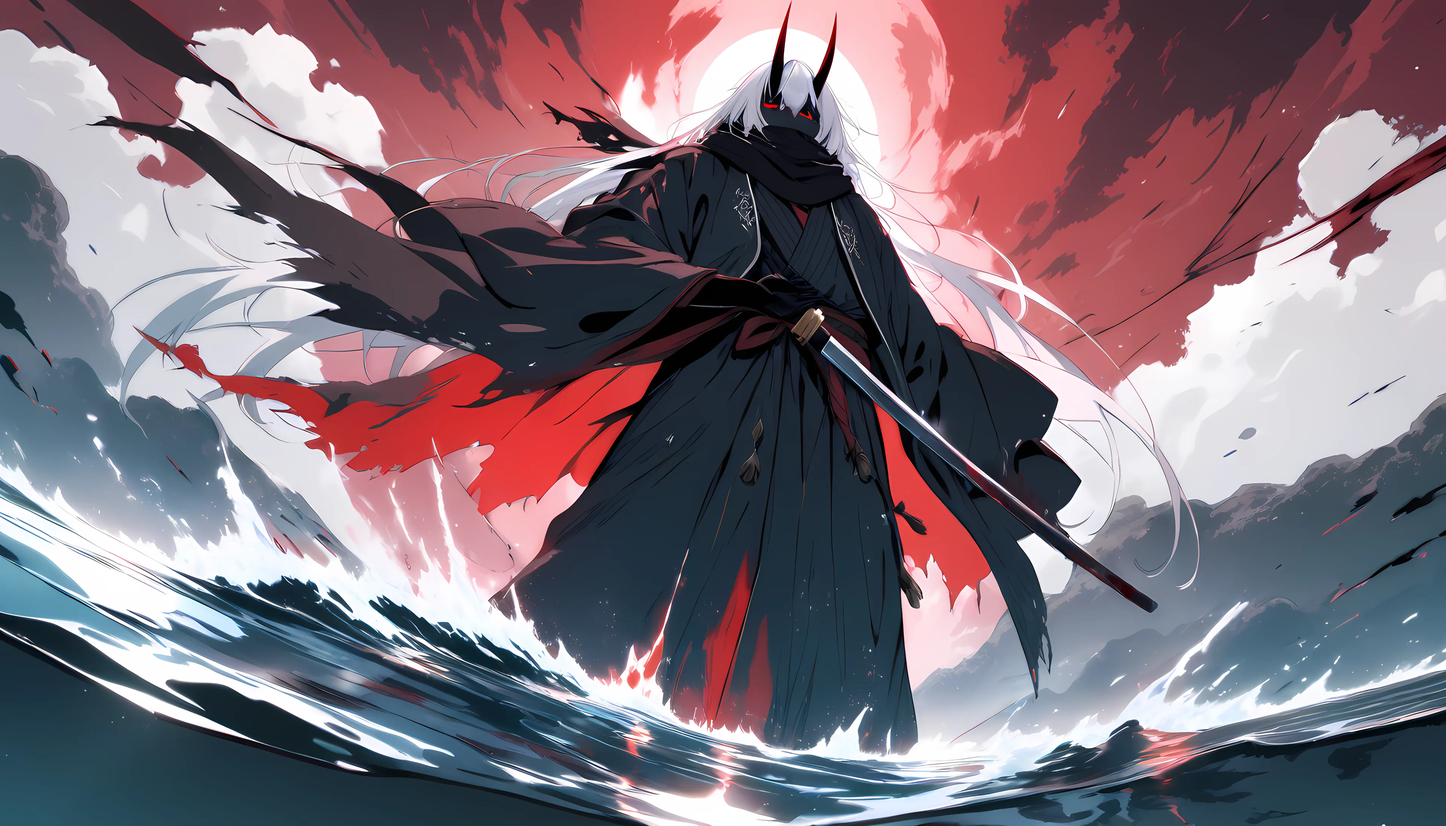
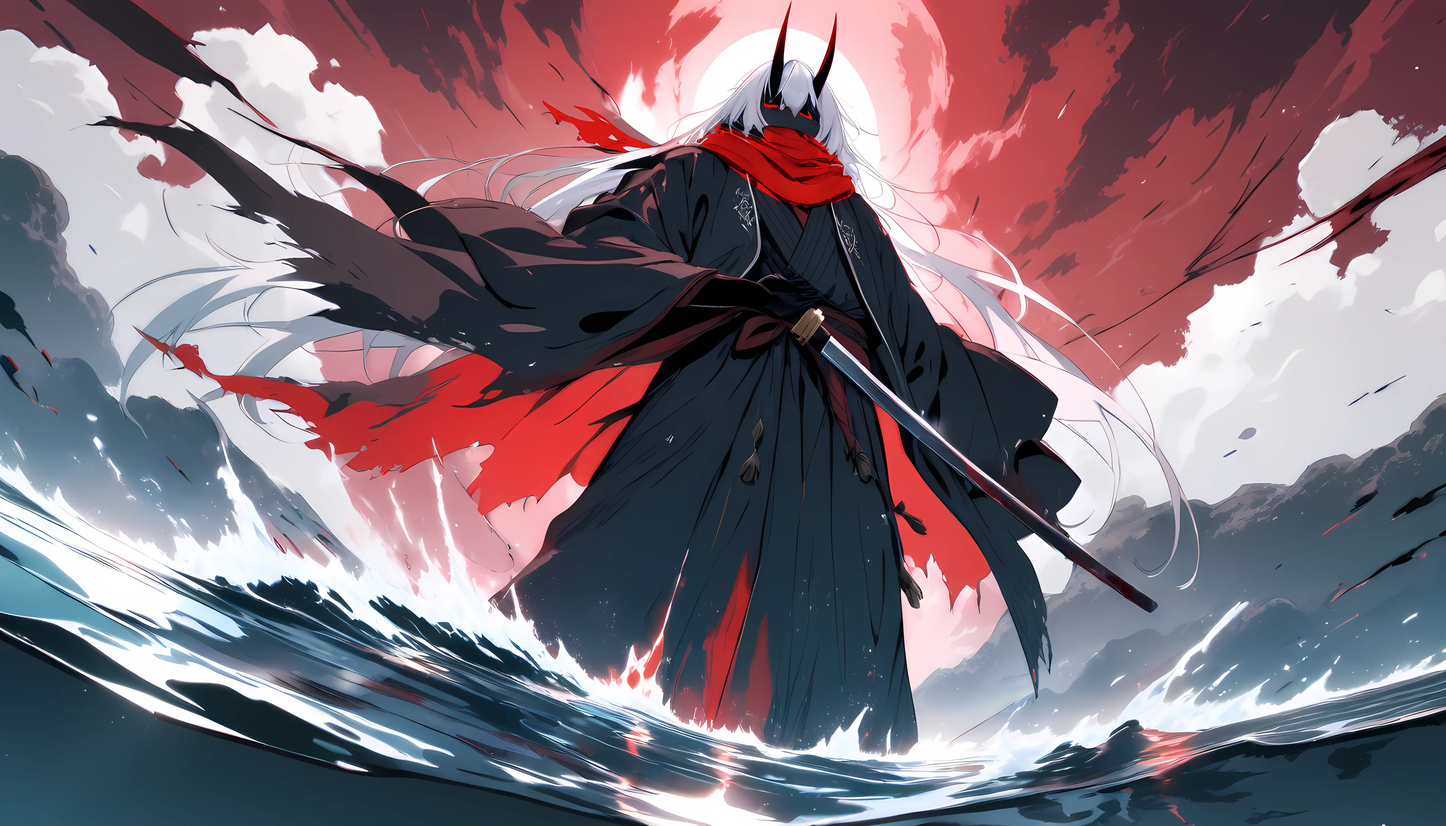
Give the oni the red scarf, fix pause, reframe the phone cut

Changed region(s): [[0.375, 0.124, 0.5938, 0.2479]]

diff --git a/index.html b/index.html
@@ -78,7 +78,7 @@
         <div class="forms-head"><h2>Ten winters, five forms</h2></div>
         <div class="track">
           <article class="panel" style="--k: #0d4fd1" aria-label="Ren diving underwater with his katana"><b>沈月</b><div class="cap"><h3>Sinking Moon</h3><p>Winter one. I went down to see how far he fell.</p></div></article>
-          <article class="panel" style="--k: #00a7a0" aria-label="Ren sprinting across the sea"><b>走潮</b><div class="cap"><h3>Running Tide</h3><p>Winter three. Fast enough now. Three winters late.</p></div></article>
+          <article class="panel" style="--k: #00a7a0" aria-label="Ren sprinting across the sea"><b>走潮</b><div class="cap"><h3>Running Tide</h3><p>Winter three. Fast enough now. Three winters too late.</p></div></article>
           <article class="panel" style="--k: #f4c20d" aria-label="Ren inside a ring of woodblock waves"><b>輪波</b><div class="cap"><h3>Wheel Wave</h3><p>Winter five. I made the sea turn around.</p></div></article>
           <article class="panel" style="--k: #3b3f8f" aria-label="Ren kneeling in the rain among lanterns"><b>静雨</b><div class="cap"><h3>Still Rain</h3><p>Winter eight. I lit him a lantern. It stayed lit.</p></div></article>
           <article class="panel" style="--k: #f0431b" aria-label="Ren, eyes burning, steam rising"><b>沸点</b><div class="cap"><h3>Boiling Point</h3><p>Winter ten. The fifth form is only for killing.</p></div></article>
@@ -100,7 +100,7 @@
     <section id="oni" class="act" style="--len: 520">
       <div class="pin">
         <h2 class="big oni-t1">Something<br />came up.</h2>
-        <h2 class="big oni-t2">It wore half<br />my scarf.</h2>
+        <h2 class="big oni-t2">I knew<br />that red.</h2>
         <h2 class="oni-t3"><span>It knew all five forms.</span><span>The sea had been watching.</span></h2>
       </div>
     </section>

diff --git a/src/acts/eleven.js b/src/acts/eleven.js
@@ -9,7 +9,7 @@ import { cam, $, say, slamIn, seg, smooth, outExpo, NUM } from './kit.js';
 const A = 0.3, B = 0.7;
 export function eleven({ stage, fx, sound }) {
   const el = $('#eleven'), scene = new THREE.Scene(), camera = cam(35);
-  const wave = new Layer(tex('./art/wave.webp'), { z: -4, cover: 1.22, y: 0.07, order: 0, depth: tex('./art/wave_d.webp') });
+  const wave = new Layer(tex('./art/wave.webp'), { z: -4, cover: 1.22, y: 0.07, order: 0, portrait: { cover: 1.22, y: 0.07, x: -0.5 }, depth: tex('./art/wave_d.webp') });
   const drift = new Layer(tex('./art/scarf.webp'), { z: -4, cover: 1.2, order: 5, depth: tex('./art/scarf_d.webp'), water: 0.006, horizon: 1.4 });
   const hold = new Panel(tex('./art/hold.webp'), { border: 9, edge: 0xffffff, order: 8 });
   for (const l of [wave, drift]) { l.place(camera); scene.add(l.mesh); }
@@ -52,8 +52,8 @@ export function eleven({ stage, fx, sound }) {
       const w = innerWidth, h = innerHeight, on = k >= 4 && k <= 7, on2 = k >= 10;
       hold.mesh.visible = false;
       if (on || on2) {
-        const y0 = on ? 0.3 : 0.16, y1 = on ? 0.72 : 0.84, t = on ? seg(p, A + (3 / 11) * (B - A), A + (3.5 / 11) * (B - A)) : 1, x = (1 - outExpo(t)) * -w * 1.1;
-        hold.set([[x - 20, h * (y0 + 0.07)], [x + w + 20, h * (y0 - 0.03)], [x + w + 20, h * (y1 - 0.06)], [x - 20, h * (y1 + 0.04)]], { w, h, zoom: 1.26 + k * 0.02, focus: [0.08, 0.42] });
+        const y0 = on ? (w < h ? 0.5 : 0.3) : 0.16, y1 = on ? 0.72 : 0.84, t = on ? seg(p, A + (3 / 11) * (B - A), A + (3.5 / 11) * (B - A)) : 1, x = (1 - outExpo(t)) * -w * 1.1;
+        hold.set([[x - 20, h * (y0 + 0.07)], [x + w + 20, h * (y0 - 0.03)], [x + w + 20, h * (y1 - 0.06)], [x - 20, h * (y1 + 0.04)]], { w, h, zoom: 1.26 + k * 0.02, focus: [w < h ? 0.3 : 0.08, 0.42] });
       }
     },
   };

diff --git a/src/acts/sky.js b/src/acts/sky.js
@@ -7,7 +7,7 @@ import { cam, $, say, slamIn, seg, smooth, outExpo } from './kit.js';
 // The boy under the mask; then the third way to read the character.
 export function sky() {
   const el = $('#sky'), scene = new THREE.Scene(), camera = cam(35);
-  const boy = new Layer(tex('./art/sora.webp'), { z: -4, cover: 1.18, order: 20, depth: tex('./art/sora_d.webp') });
+  const boy = new Layer(tex('./art/sora.webp'), { z: -4, cover: 1.18, order: 20, portrait: { cover: 1.1, x: -0.1 }, depth: tex('./art/sora_d.webp') });
   const bg = new Layer(tex('./art/skyend.webp'), { z: -8, cover: 1.2, order: 0, depth: tex('./art/skyend_d.webp'), water: 0.008, horizon: 0.24 });
   const kanji = new Layer(textTex('空', { font: 'Yuji Boku', size: 900, color: '#e5261f' }), { z: -5, x: -0.14, y: 0.1, h: 0.86, order: 4, portrait: { x: 0, y: 0.16, h: 0.46 } });
   const hero = new Layer(tex('./art/dawn_char.webp'), { z: -1, x: 0.2, h: 0.78, anchor: 'bottom', order: 10, wind: 0.014, pivot: [0.5, 0.35], portrait: { x: 0.14, h: 0.52 } });

diff --git a/src/acts/twelve.js b/src/acts/twelve.js
@@ -8,7 +8,7 @@ const A = 0.16, B = 0.58;
 export function twelve({ stage, fx, sound, go }) {
   const el = $('#twelve'), scene = new THREE.Scene(), camera = cam(35);
   const oni = new Layer(tex('./art/oni.webp'), { z: -4, cover: 1.15, order: 0, depth: tex('./art/oni_d.webp'), portrait: { x: 0.12, cover: 1.15 } });
-  const mask = new Layer(tex('./art/mask.webp'), { z: -4, cover: 1.15, order: 1, depth: tex('./art/mask_d.webp') });
+  const mask = new Layer(tex('./art/mask.webp'), { z: -4, cover: 1.15, order: 1, depth: tex('./art/mask_d.webp'), portrait: { cover: 1.15, x: -0.5 } });
   for (const l of [oni, mask]) { l.place(camera); scene.add(l.mesh); }
   const count = $('.count', el), btn = $('#name'); let n = -1;
   btn.addEventListener('click', () => { sound.heart(1.4); stage.impact(120); go('twelve', 1, 1.5); setTimeout(() => go('sky', 0.16, 2.6), 1500); });

diff --git a/src/style.css b/src/style.css
@@ -177,10 +177,11 @@ footer { position: relative; z-index: 2; background: #05060f; color: #fff; min-h
   .vo { bottom: 11vh; }
   .vo.hi { top: 13vh; right: 34px; }
   .big { font-size: 13.4vw; }
-  .el-t3, .tw-t1, .st-t { font-size: 10.4vw; }
-  .count { left: 5vw; top: 44%; font-size: 34vh; -webkit-text-stroke-width: 14px; }
+  .el-t3, .tw-t1, .st-t { font-size: 8.8vw; }
+  .tw-t1 { font-size: 10vw; }
+  .count { left: 5vw; top: 34%; font-size: 34vh; -webkit-text-stroke-width: 14px; }
   .count.dbl { font-size: 24vh; }
-  .oni-t3 { font-size: 7.6vw; }
+  .oni-t3 { font-size: 6.6vw; }
   .oni-t3 span:first-child { left: 5vw; top: 34vh; }
   .oni-t3 span:last-child { right: 8vw; top: 62vh; }
   .fire-t, .fire-t2 { font-size: 11vw; top: 12vh; bottom: auto; }

diff --git a/src/main.js b/src/main.js
@@ -97,7 +97,7 @@ function wire({ director, sound, stage }) {
 
   // Play: the film runs itself at a watchable pace until you take the wheel back.
   const play = $('#play'); let on = false;
-  const stop = () => { if (!on) return; on = false; play.textContent = 'Play'; director.lenis.scrollTo(director.lenis.scroll, { immediate: true }); };
+  const stop = () => { if (!on) return; on = false; play.textContent = 'Play'; director.lenis.stop(); director.lenis.start(); };
   play.addEventListener('click', () => {
     if (on) return stop();
     const end = document.documentElement.scrollHeight - innerHeight, left = end - director.lenis.scroll;

diff --git a/README.md b/README.md
@@ -2,7 +2,9 @@
 
 **[Watch it live](https://abu166.github.io/minagiwa/)**
 
-A scroll-driven anime short in seven cuts. One WebGL stage, pinned acts, and drawn transitions (iris, ink sweep, diamond, paper burn, blade cut) that move with your scroll.
+A scroll-driven anime short in ten cuts. Ren held the sea back for eleven heartbeats. His brother needed twelve.
+
+Scroll to watch, or press Play. There is one button in the story, and a scene after the credits.
 
 ## Run
 
@@ -16,7 +18,7 @@ npm run dev
 ## How it works
 
 - `src/scroll.js` turns scroll position into an act, its progress, and how far the transition to the next act has run.
-- `src/stage/` is the camera department: multiplane cels, the cel-shaded torii run, the water serpent, particles, and the compositor with impact frames, focus lines and letterbox.
+- `src/stage/` is the camera department: multiplane cels, the cel-shaded torii run, the water serpent, particles, and the compositor with impact frames, time-stop tones, glow, cracks, shards and the red scarf that crosses every cut.
 - `src/acts/` is one file per cut.
 - `src/ui/fx.js` fires Sakuga VFX effects at beats in the scroll.
 - Motion is stepped on twos and threes where a key animator would.
@@ -24,6 +26,6 @@ npm run dev
 
 ## Credits
 
-- Interface controls and effects: [Sakuga VFX](https://github.com/finktheartist/sakuga-vfx) by Justin Finkelman, MIT. Vendored in `public/sakuga-vfx/`.
+- Loader, buttons, switch and drawn effects: [Sakuga VFX](https://github.com/finktheartist/sakuga-vfx) by Justin Finkelman, MIT. Vendored in `public/sakuga-vfx/`.
 - Built with three.js, GSAP and Lenis.
-- Ren, the story and the art are original to this project. Character and background art was generated locally with Animagine XL 4.0 (CreativeML Open RAIL++-M), then cut out, upscaled and composited.
+- Ren, the story and the art are original to this project. Character and background art was generated locally with Animagine XL 4.0 (CreativeML Open RAIL++-M), then cut out, upscaled and composited. Relief maps come from Depth Anything V2 Small (Apache-2.0).
